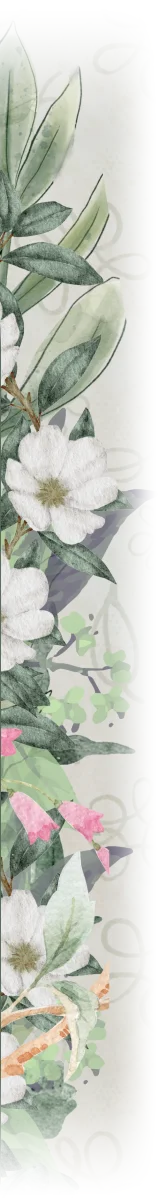
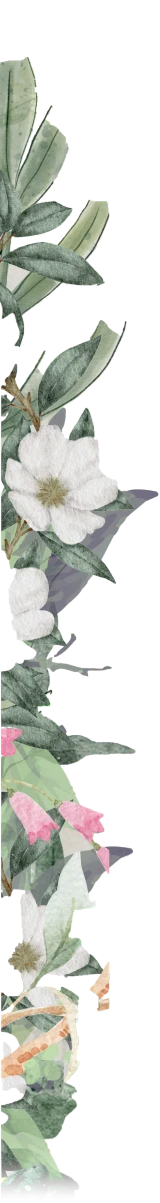
Initial commit

diff --git a/index.html b/index.html
@@ -4,14 +4,14 @@
   <meta charset="utf-8">
   <meta name="viewport" content="width=device-width, initial-scale=1, viewport-fit=cover">
   <title>Muhammed &amp; Waad — Engagement Celebration</title>
-  <meta name="description" content="You're invited to celebrate the engagement of Muhammed &amp; Waad on Thursday, 5 November 2026 at 7:00 PM.">
+  <meta name="description" content="You're invited to celebrate the engagement of Muhammed &amp; Waad on Thursday, 5 November 2026 at 6:00 PM.">
   <meta name="theme-color" content="#576A59">
 
   <!-- Social preview. After deploying, replace the relative image path with the full
        https:// URL (WhatsApp and Facebook require an absolute og:image). -->
   <meta property="og:type" content="website">
   <meta property="og:title" content="Muhammed &amp; Waad — Engagement Celebration">
-  <meta property="og:description" content="Thursday, 5 November 2026 at 7:00 PM. Open to view the invitation.">
+  <meta property="og:description" content="Thursday, 5 November 2026 at 6:00 PM. Open to view the invitation.">
   <meta property="og:image" content="assets/og-image.jpg">
   <meta property="og:image:width" content="1200">
   <meta property="og:image:height" content="630">
@@ -382,7 +382,7 @@
         <img class="card__layer" data-step="6" style="--l:41.29;--t:67.741;--w:18.581"
              src="assets/card/november.png" width="297" height="83" alt="November">
         <img class="card__layer" data-step="7" style="--l:19.871;--t:72.135;--w:60.645"
-             src="assets/card/date-row.png" width="970" height="107" alt="Thursday, 5, at 7:00 PM">
+             src="assets/card/date-row.png" width="970" height="107" alt="Thursday, 5, at 6:00 PM">
 
         <div class="card__countdown" data-step="8">
           <div class="countdown" id="countdown" role="timer" aria-live="off">
@@ -411,7 +411,7 @@
       <div class="arch-scene" data-reveal>
         <img class="lantern lantern--left" src="assets/art/lantern.svg" alt="" width="100" height="260" loading="lazy" data-swing>
         <img class="lantern lantern--right" src="assets/art/lantern.svg" alt="" width="100" height="260" loading="lazy" data-swing>
-        <img class="arch-scene__garland arch-scene__garland--left" src="assets/card/garland-left.webp" alt="" width="158" height="925" loading="lazy">
+        <img class="arch-scene__garland arch-scene__garland--left" src="assets/card/garland-left-arch.webp" alt="" width="243" height="925" loading="lazy">
         <div class="arch">
           <div class="arch__content">
             <svg class="arch__ornament" viewBox="0 0 24 24" aria-hidden="true" data-reveal style="--d:1"><use href="#i-sprig"/></svg>
@@ -424,7 +424,7 @@
             </div>
           </div>
         </div>
-        <img class="arch-scene__garland arch-scene__garland--right" src="assets/card/garland-right.webp" alt="" width="160" height="1203" loading="lazy">
+        <img class="arch-scene__garland arch-scene__garland--right" src="assets/card/garland-right-arch.webp" alt="" width="248" height="1203" loading="lazy">
 
         <!-- the musicians: nay player (left) and oud player (right), as in the reference -->
         <svg class="musician musician--nay" viewBox="0 0 220 280" role="img" aria-label="Illustration: a musician in a tuxedo and sunglasses playing the nay flute">
@@ -502,7 +502,7 @@
 
           <p class="venue-card__time" data-reveal style="--d:6">
             <svg viewBox="0 0 48 48" aria-hidden="true"><use href="#i-clock"/></svg>
-            <span id="time-text">Starts at 7:00 PM</span>
+            <span id="time-text">Starts at 6:00 PM</span>
           </p>
           <p class="venue-card__note" id="tz-note" hidden></p>
 
@@ -543,7 +543,7 @@
       <figure class="keepsake" data-reveal>
         <img src="assets/card/invitation-900.webp" srcset="assets/card/invitation-900.webp 900w, assets/card/invitation-1600.webp 1600w"
              sizes="(min-width: 600px) 420px, 78vw" width="1600" height="2255" loading="lazy"
-             alt="The engagement invitation card: W and M monogram, Thursday 5 November at 7:00 PM">
+             alt="The engagement invitation card: W and M monogram, Thursday 5 November at 6:00 PM">
       </figure>
       <h2 class="script-title" id="closing-title" data-reveal></h2>
       <p class="closing__names" id="closing-names" data-reveal></p>

diff --git a/css/styles.css b/css/styles.css
@@ -671,18 +671,20 @@ button { font: inherit; }
 .arch__actions { display: grid; justify-items: center; gap: .7rem; }
 .arch__deadline { font-size: .66rem; letter-spacing: .16em; text-transform: uppercase; opacity: .8; }
 
+/* Placed exactly where they sit on the card (arch = 2880 artwork px wide,
+   dome top at y 406), so the foliage meets the arch's sides and dome as printed. */
 .arch-scene__garland {
   position: absolute; z-index: 1;
-  width: 18%; height: auto;
+  height: auto;
   pointer-events: none;
-  transform-origin: 50% 100%;
 }
-.arch-scene__garland--left  { right: calc(100% - 2px); bottom: 30%; }
-.arch-scene__garland--right { left: calc(100% - 2px); bottom: 24%; }
+.arch-scene__garland--left  { width: 26.389%; left: -17.257%; top: calc(var(--aw) * .3903); transform-origin: 68% 100%; }
+.arch-scene__garland--right { width: 26.910%; left: 90.382%;  top: calc(var(--aw) * .1264); transform-origin: 36% 100%; }
 .arch-scene.is-visible .arch-scene__garland--left  { animation: sway-l 9s ease-in-out 1.2s infinite; }
 .arch-scene.is-visible .arch-scene__garland--right { animation: sway-r 10s ease-in-out 1.2s infinite; }
-@keyframes sway-l { 0%, 100% { transform: rotate(0); } 50% { transform: rotate(-1.1deg); } }
-@keyframes sway-r { 0%, 100% { transform: rotate(0); } 50% { transform: rotate(1.1deg); } }
+/* gentle: the inner edge meets the arch, so a big sway would open a gap */
+@keyframes sway-l { 0%, 100% { transform: rotate(0); } 50% { transform: rotate(-.5deg); } }
+@keyframes sway-r { 0%, 100% { transform: rotate(0); } 50% { transform: rotate(.5deg); } }
 
 /* ───────────────────────────────────────────────────────────────
    3. Details

diff --git a/js/config.js b/js/config.js
@@ -19,8 +19,8 @@ window.INVITATION_CONFIG = {
   event: {
     title: "Engagement Celebration",
     // Local date and time of the event, exactly as printed on the invitation:
-    // Thursday, 5 November 2026 at 7:00 PM.
-    start: "2026-11-05T19:00",
+    // Thursday, 5 November 2026 at 6:00 PM.
+    start: "2026-11-05T18:00",
     durationHours: 4, // TODO: used for calendar entries and the "thank you" state
 
     // IANA time zone of the venue. The countdown, calendar entries and the

diff --git a/tools/build_assets.py b/tools/build_assets.py
@@ -22,6 +22,8 @@ ROOT = os.path.dirname(os.path.dirname(os.path.abspath(__file__)))
 SRC = os.path.join(ROOT, "assets", "source", "invitation-original.png")
 OUT = os.path.join(ROOT, "assets", "card")
 ARCH_BGR = np.array([89, 106, 87], dtype=np.float32)  # #576A59
+ARCH_SIDES = (497, 3377)  # x of the arch's straight sides, in artwork pixels
+ARCH_TOP = 406            # y of the top of the dome
 
 # Boxes in original-artwork pixels: (x0, y0, x1, y1)
 LAYERS = {
@@ -76,6 +78,87 @@ def fg_colour(crop):
     px = crop.reshape(-1, 3).astype(np.float32)
     lum = px.sum(1)
     return px[lum >= np.percentile(lum, 98)].mean(0)
+
+
+def arch_inset(xs, ys):
+    """Signed distance (px) inside the card's arch: >0 inside, <0 outside."""
+    x0, x1, top = ARCH_SIDES[0], ARCH_SIDES[1], ARCH_TOP
+    r = (x1 - x0) / 2
+    cx, cy = (x0 + x1) / 2, top + r
+    sides = np.minimum(xs - x0, x1 - xs)
+    dome = r - np.hypot(xs - cx, ys - cy)
+    return np.where(ys >= cy, sides, np.minimum(dome, sides))
+
+
+def garland_cutout(art, box):
+    """BGRA cut-out of the florals in `box`, free of the stone background, the arch and its hairline."""
+    x0, y0, x1, y1 = box
+    crop = art[y0:y1, x0:x1]
+    h, w = crop.shape[:2]
+    ys, xs = np.mgrid[y0:y1, x0:x1].astype(np.float32)
+    inset = arch_inset(xs, ys)
+    inside = inset > 0
+
+    lab = cv2.GaussianBlur(cv2.cvtColor(crop, cv2.COLOR_BGR2LAB).astype(np.float32), (0, 0), 2)
+    L = lab[..., 0]
+    chroma = np.hypot(lab[..., 1] - 128, lab[..., 2] - 128)
+    # stone background: its median colour and the darker colour of its swirl lines
+    ref = cv2.cvtColor(art[0:370, 1400:2400], cv2.COLOR_BGR2LAB).reshape(-1, 3).astype(np.float32)
+    bg = np.median(ref, 0)
+    line = ref[ref[:, 0] <= np.percentile(ref[:, 0], 1)].mean(0)
+    v = line - bg
+    t = np.clip(((lab - bg) @ v) / (v @ v), 0, 1.6)
+    d_bg = np.linalg.norm(lab - (bg + t[..., None] * v), axis=2)
+    d_arch = np.abs(crop.astype(np.float32) - ARCH_BGR).sum(2)
+    hairline = inside & (inset > 110) & (inset < 152) & (L > 195) & (chroma < 14)
+    # the card's pale strip just outside the arch edge
+    edge_strip = ~inside & (inset > -45) & (chroma < 9) & (L > 165) & (L < 222)
+
+    seed = np.where(inside, (d_arch > 40) & ~hairline, (d_bg > 13) | (L > 229.5)) & ~edge_strip
+    seed = cv2.morphologyEx(seed.astype(np.uint8), cv2.MORPH_CLOSE, np.ones((9, 9), np.uint8))
+    seed = cv2.morphologyEx(seed, cv2.MORPH_OPEN, np.ones((5, 5), np.uint8))
+    seed = keep_large(seed, 3000, fill_below=60000)
+
+    # GrabCut refines the colour-key seed (keeps whole petals whose shading nears the background)
+    gc = np.where(seed > 0, cv2.GC_PR_FGD, cv2.GC_PR_BGD).astype(np.uint8)
+    gc[np.where(inside, d_arch > 90, (d_bg > 28) | (L > 236))] = cv2.GC_FGD
+    far = cv2.distanceTransform((1 - seed).astype(np.uint8), cv2.DIST_L2, 5) > 30
+    gc[np.where(inside, d_arch < 12, far & (d_bg < 7) & (L < 227)) | hairline | edge_strip] = cv2.GC_BGD
+    small = cv2.resize(crop, None, fx=0.5, fy=0.5, interpolation=cv2.INTER_AREA)
+    gc_s = cv2.resize(gc, (small.shape[1], small.shape[0]), interpolation=cv2.INTER_NEAREST)
+    cv2.grabCut(small, gc_s, None, np.zeros((1, 65)), np.zeros((1, 65)), 6, cv2.GC_INIT_WITH_MASK)
+    keep = cv2.resize(np.isin(gc_s, (cv2.GC_FGD, cv2.GC_PR_FGD)).astype(np.uint8), (w, h), interpolation=cv2.INTER_LINEAR)
+    keep[hairline | edge_strip | (inside & (d_arch < 12))] = 0
+    keep = cv2.morphologyEx(keep, cv2.MORPH_OPEN, np.ones((5, 5), np.uint8))
+    keep = keep_large(keep, 3000, fill_below=8000)
+
+    alpha = cv2.GaussianBlur(keep.astype(np.float32), (0, 0), 1.6)
+    alpha = np.clip((alpha - 0.15) / 0.85, 0, 1)
+    fy = np.clip(np.minimum(np.arange(h), h - 1 - np.arange(h)) / (0.06 * h), 0, 1)
+    alpha *= (fy * fy * (3 - 2 * fy))[:, None]  # stems fade out at the ends instead of stopping dead
+
+    # un-mix the edge pixels from whatever they were blended with (arch or stone)
+    stone = cv2.cvtColor(np.uint8([[bg]]), cv2.COLOR_LAB2BGR)[0, 0].astype(np.float32)
+    under = np.where(inside[..., None], ARCH_BGR, stone)
+    a = np.clip(alpha, 0.15, 1)[..., None]
+    fg = np.where(alpha[..., None] < 0.98, (crop - under * (1 - a)) / a, crop)
+    return np.dstack([np.clip(fg, 0, 255), alpha * 255]).astype(np.uint8)
+
+
+def keep_large(mask, min_area, fill_below):
+    """Drop specks smaller than min_area; fill enclosed holes smaller than fill_below."""
+    n, lbl, st, _ = cv2.connectedComponentsWithStats(mask, connectivity=8)
+    out = np.zeros_like(mask)
+    for i in range(1, n):
+        if st[i, 4] >= min_area:
+            out[lbl == i] = 1
+    h, w = out.shape
+    n, lbl, st, _ = cv2.connectedComponentsWithStats((1 - out).astype(np.uint8), connectivity=4)
+    for i in range(1, n):
+        x, y, bw, bh, area = st[i]
+        if area < fill_below and x > 0 and y > 0 and x + bw < w and y + bh < h:
+            out[lbl == i] = 1
+    return out
 
 
 def scaled(img, scale):
@@ -148,20 +231,18 @@ def main():
     tile = np.vstack([row, row[::-1]])
     cv2.imwrite(os.path.join(ROOT, "assets", "pattern.webp"), scaled(tile, 0.4), [cv2.IMWRITE_WEBP_QUALITY, 80])
 
-    # Garlands: the florals growing along the arch's left and right edges.
-    # Their inner edge is the arch edge, so on the site they sit flush against arch panels.
-    for name, (x0, y0, x1, y1), inner in (
-        ("garland-left", (0, 1530, 494, 4420), "right"),
-        ("garland-right", (3374, 770, 3875, 4530), "left"),
+    # Garlands: the florals growing along the arch's left and right edges, cut out
+    # from the card's stone background (and from the arch itself) so only the
+    # leaves and blossoms remain. "-arch" variants keep the foliage that spills
+    # over the arch, for the message arch where they overlap its sides as on the card.
+    for name, box in (
+        ("garland-left", (0, 1530, 494, 4420)),
+        ("garland-right", (3374, 770, 3875, 4530)),
+        ("garland-left-arch", (0, 1530, 760, 4420)),
+        ("garland-right-arch", (3100, 770, 3875, 4530)),
     ):
-        crop = art[y0:y1, x0:x1]
-        h, w = crop.shape[:2]
-        fy = np.clip(np.minimum(np.arange(h), h - 1 - np.arange(h)) / (0.12 * h), 0, 1)
-        dx = np.arange(w) if inner == "right" else (w - 1 - np.arange(w))
-        fx = np.clip(dx / (0.35 * w), 0, 1)  # fade toward the outer (page) edge only
-        alpha = (np.outer(fy * fy * (3 - 2 * fy), fx * fx * (3 - 2 * fx)) * 255).astype(np.uint8)
-        rgba = np.dstack([crop, alpha])
-        cv2.imwrite(os.path.join(OUT, f"{name}.webp"), scaled(rgba, 0.32), [cv2.IMWRITE_WEBP_QUALITY, 84])
+        rgba = garland_cutout(art, box)
+        cv2.imwrite(os.path.join(OUT, f"{name}.webp"), scaled(rgba, 0.32), [cv2.IMWRITE_WEBP_QUALITY, 90])
 
     with open(os.path.join(OUT, "layers.json"), "w") as f:
         json.dump(meta, f, indent=2)
